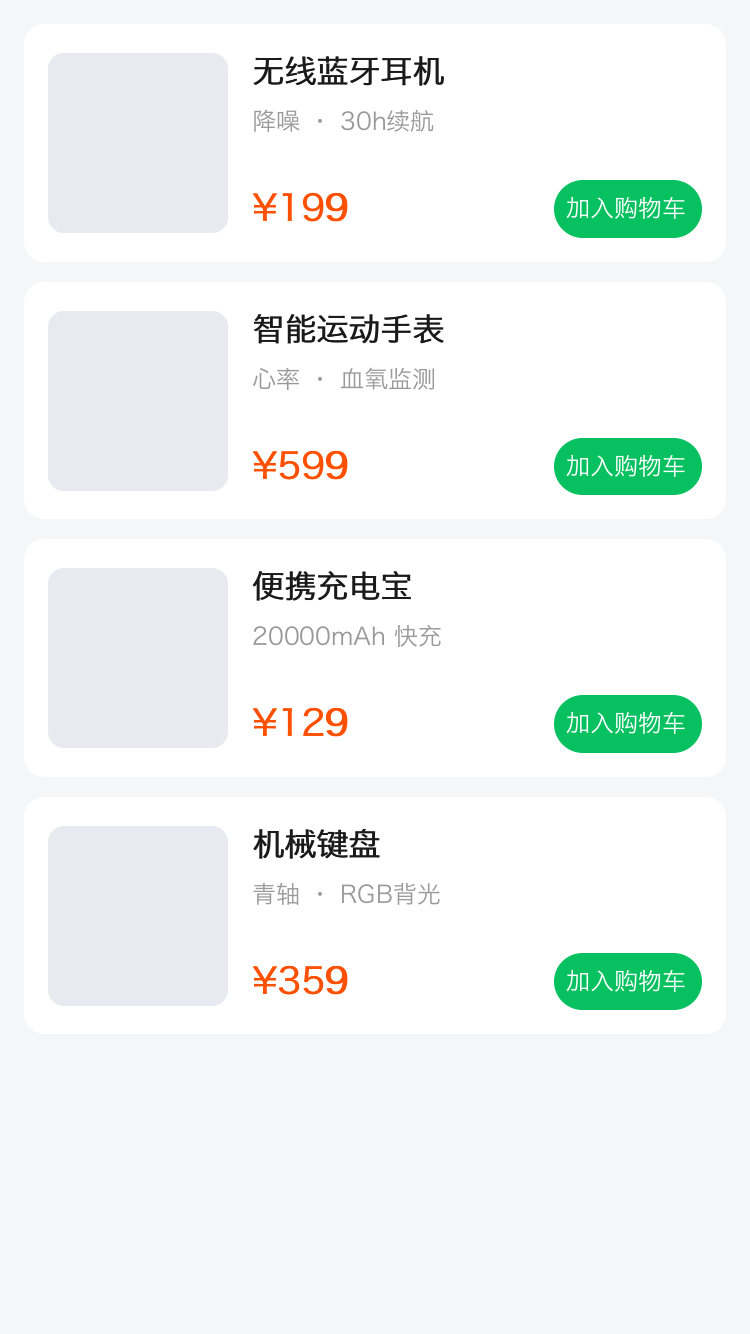
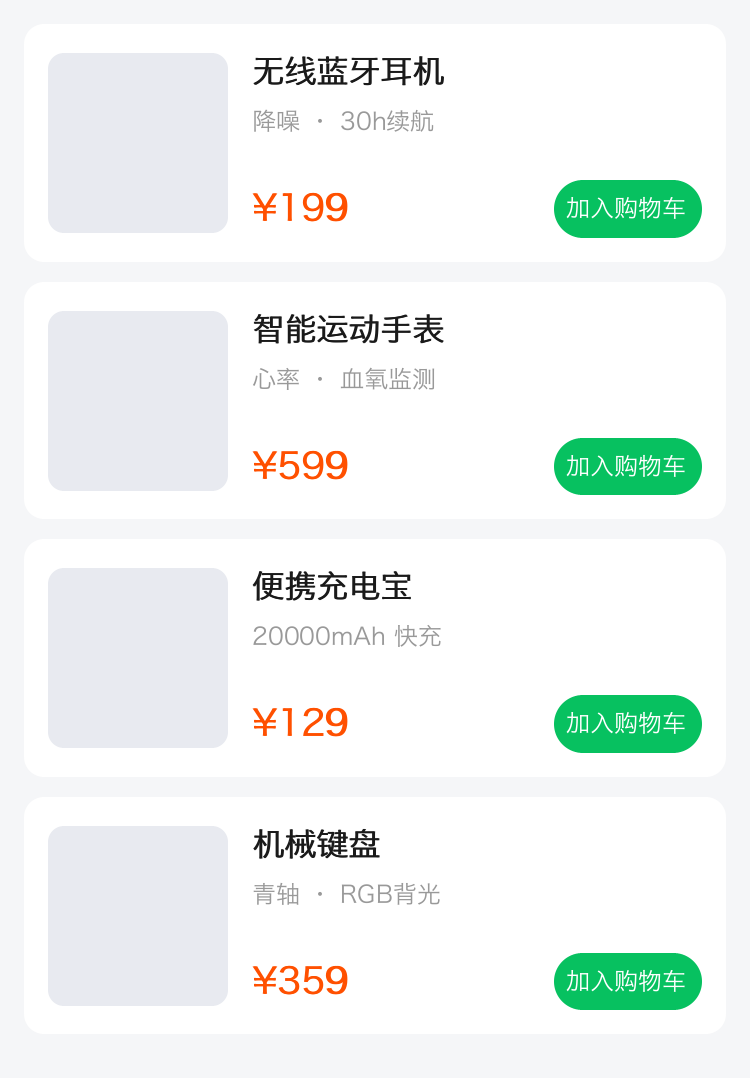
优化代码，优化UI渲染

diff --git a/src/renderer/wxml_renderer.rs b/src/renderer/wxml_renderer.rs
@@ -456,6 +456,29 @@ impl WxmlRenderer {
         }
     }
 
+    /// 测量给定 WXML+数据的内容总高度（逻辑像素），用于自适应画布尺寸。
+    pub fn measure_content_height(&self, nodes: &[WxmlNode], data: &JsonValue) -> f32 {
+        let rendered = crate::parser::TemplateEngine::render(nodes, data);
+        let mut taffy = TaffyTree::new();
+        let mut render_nodes = Vec::new();
+        for node in &rendered {
+            if let Some(rn) = self.build_tree(&mut taffy, node, &[], &InheritedText::default()) {
+                render_nodes.push(rn);
+            }
+        }
+        let child_ids: Vec<NodeId> = render_nodes.iter().map(|n| n.taffy_node).collect();
+        let root = taffy.new_with_children(
+            Style {
+                size: Size { width: length(self.screen_width * self.scale_factor), height: auto() },
+                flex_direction: FlexDirection::Column,
+                ..Default::default()
+            },
+            &child_ids,
+        ).unwrap();
+        taffy.compute_layout(root, Size::MAX_CONTENT).unwrap();
+        taffy.layout(root).unwrap().size.height / self.scale_factor
+    }
+    
     fn build_tree(&self, taffy: &mut TaffyTree, node: &WxmlNode, ancestors: &[ElementDesc], inherited: &InheritedText) -> Option<RenderNode> {
         let sf = self.scale_factor;
         

diff --git a/examples/gallery.rs b/examples/gallery.rs
@@ -13,13 +13,18 @@ const SCALE: f32 = 2.0;
 fn render(name: &str, bg: u32, wxml: &str, wxss: &str, data: Value) {
     let nodes = WxmlParser::new(wxml).parse().expect("wxml");
     let ss = WxssParser::new(wxss).parse().expect("wxss");
-    let mut r = WxmlRenderer::new_with_scale(ss, W as f32, H as f32, SCALE);
-    let mut canvas = Canvas::new((W as f32 * SCALE) as u32, (H as f32 * SCALE) as u32);
+    let r = WxmlRenderer::new_with_scale(ss, W as f32, H as f32, SCALE);
+    // 按内容高度自适应画布：保证截图完整、无裁切、无大片空白
+    let content_h = r.measure_content_height(&nodes, &data).max(240.0);
+    let mut r = r;
+    let cw = (W as f32 * SCALE) as u32;
+    let ch = (content_h * SCALE).ceil() as u32;
+    let mut canvas = Canvas::new(cw, ch);
     canvas.clear(Color::from_hex(bg));
     r.render(&mut canvas, &nodes, &data);
     let path = format!("doc/gallery/{}.png", name);
     canvas.save_png(&path).expect("save");
-    println!("  ✓ {}", path);
+    println!("  ✓ {} ({}x{})", path, cw, ch);
 }
 
 fn main() {

diff --git a/src/renderer/components/text.rs b/src/renderer/components/text.rs
@@ -92,6 +92,9 @@ impl TextComponent {
         let line_height = node.style.line_height.map(|lh| lh * sf).unwrap_or(size * 1.5);
         let letter_spacing = node.style.letter_spacing * sf;
         
+        // 绘制文本自身的背景（<text> 也可有 background-color / 圆角）
+        draw_background(canvas, &node.style, x, y, w, h);
+        
         if let Some(tr) = text_renderer {
             let paint = Paint::new().with_color(color).with_style(PaintStyle::Fill);
             
